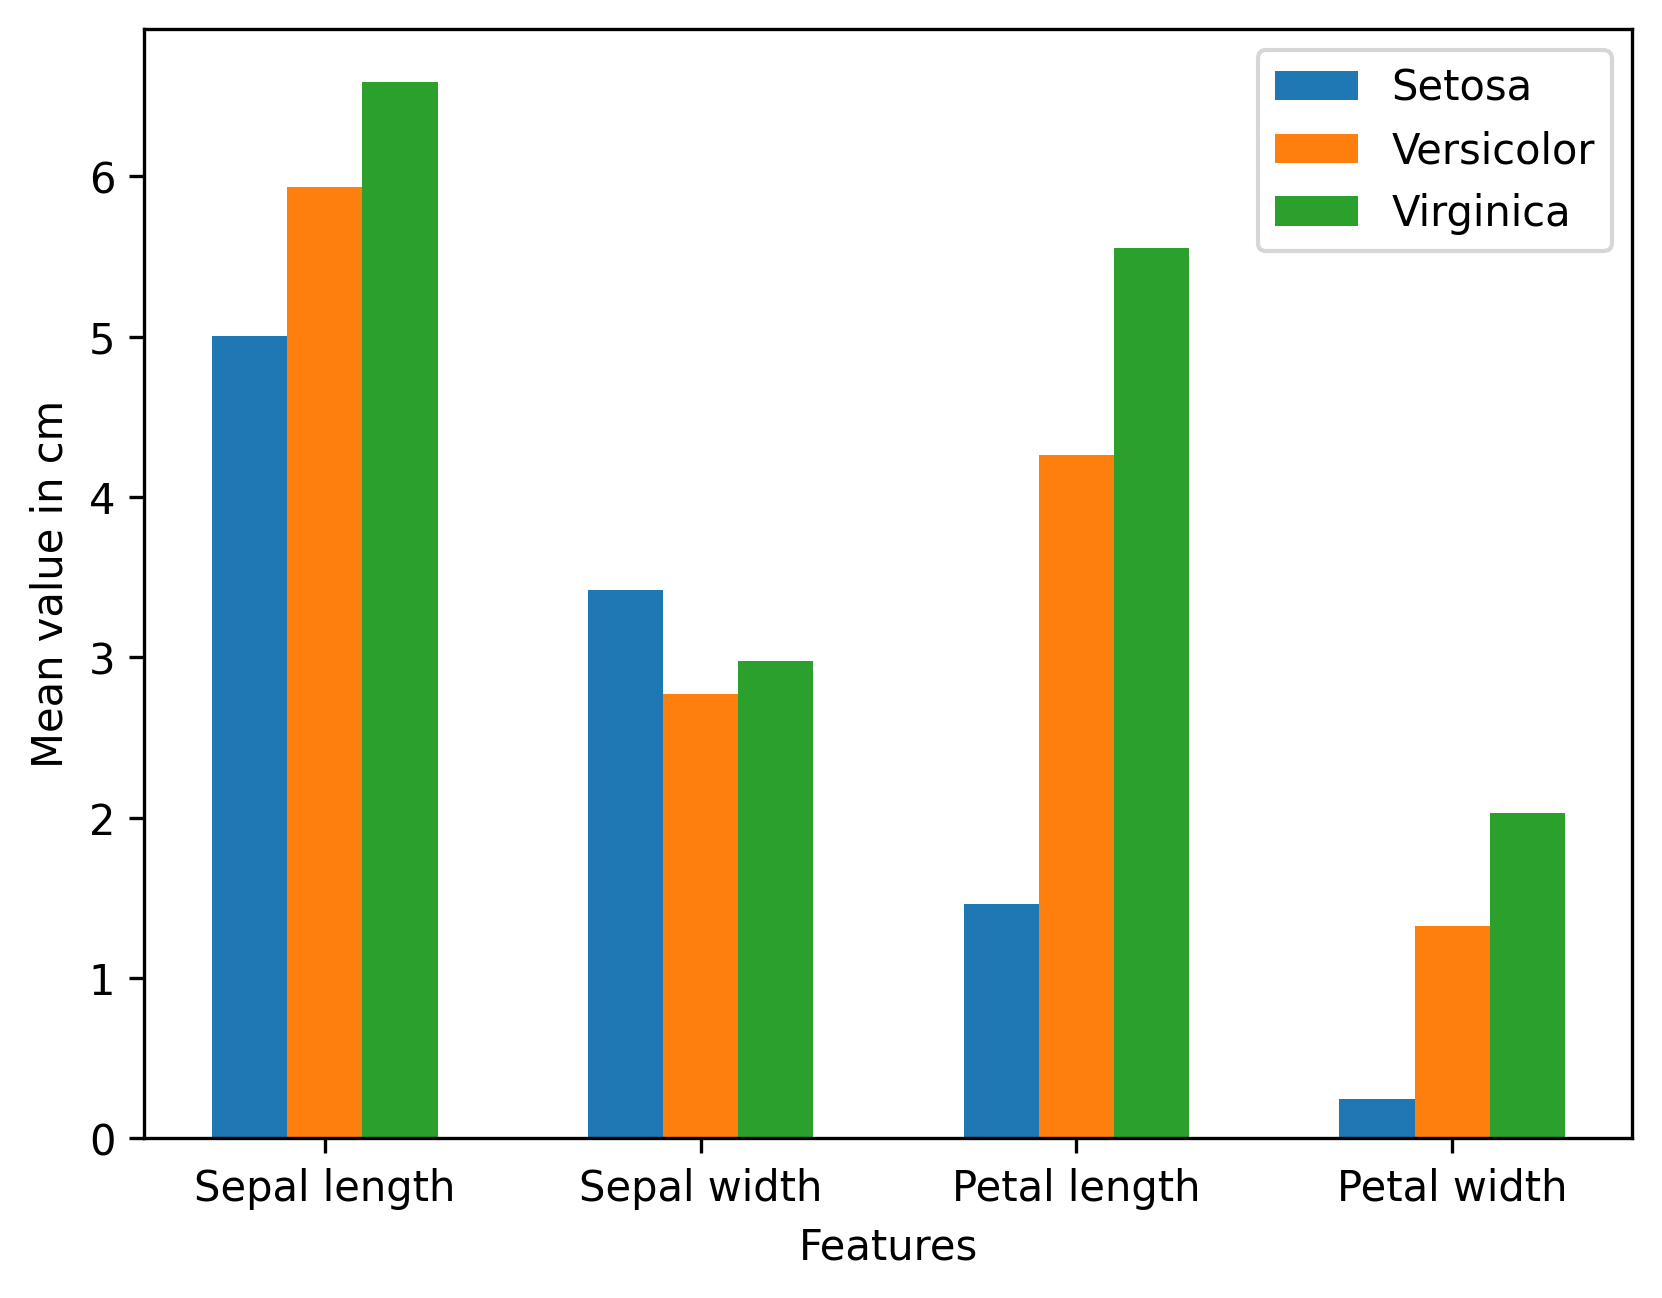
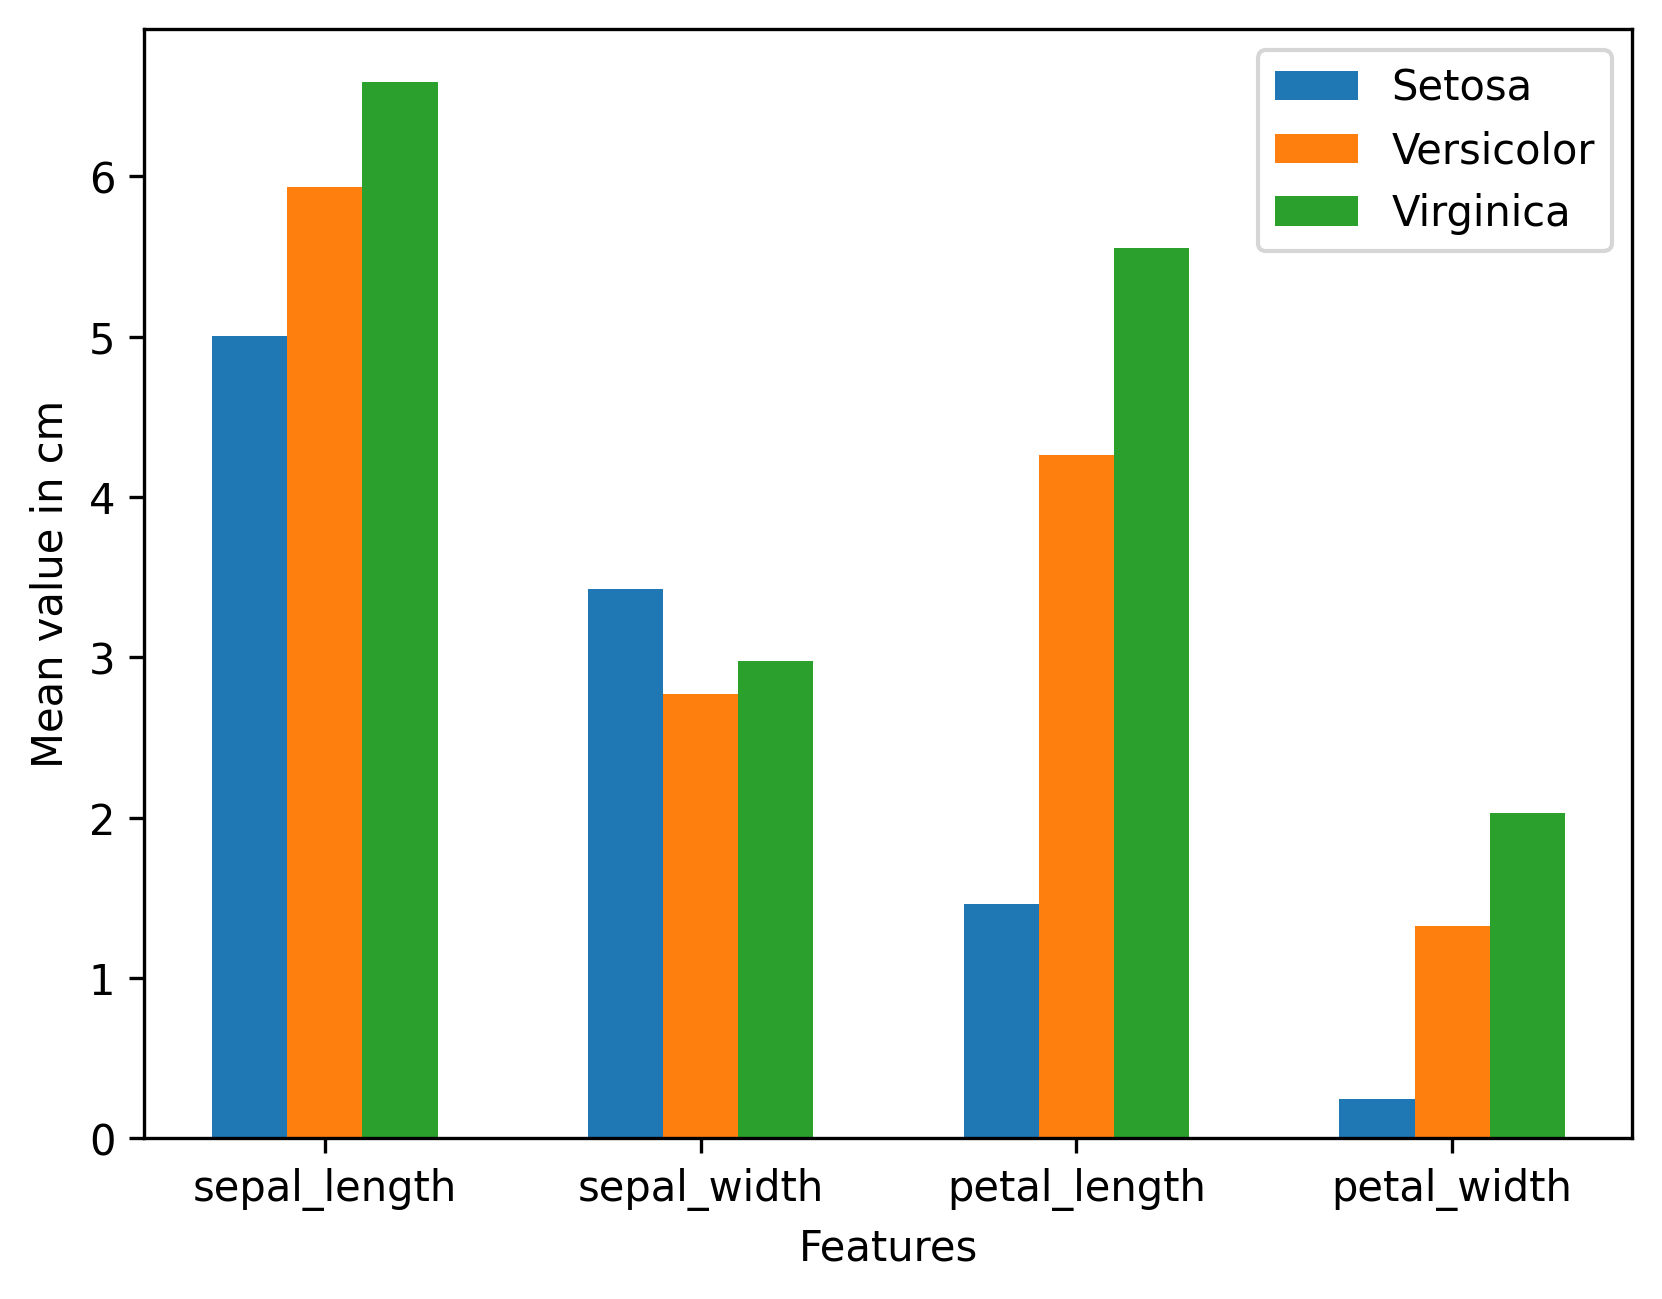
sepparate into functions, add svm classification

diff --git a/index.py b/index.py
@@ -1,37 +1,41 @@
-import numpy as np
 import matplotlib.pyplot as plt
+import numpy as np
 import seaborn as sns
-import pandas as pd
+from sklearn.model_selection import train_test_split
+from sklearn.svm import SVC
 
-columns = ['Sepal length', 'Sepal width', 'Petal length', 'Petal width', 'Class labels']
+data = sns.load_dataset("iris")
+X = data.drop("species", axis=1)
+y = data["species"]
 
-df = pd.read_csv('iris.data', names=columns)
 
-print('First rows:')
-print(df.head(), '\n')
+def plot_pairplots():
+    sns.pairplot(data, hue="species")
+    plt.savefig("pairplot.png", dpi=300, bbox_inches="tight")
 
-print('Data description:')
-print(df.describe(), '\n')
 
-# pair plots
-pairplot = sns.pairplot(df, hue='Class labels')
-plt.savefig('pairplot.png', dpi=300, bbox_inches='tight')
+def plot_barplots():
+    bar_width = 0.2
+    mean_values = np.array([X[y == j].mean() for j in y.unique()])
+    x_axis = np.arange(len(X.columns))
+    plt.figure()
+    plt.bar(x_axis, mean_values[0], bar_width, label="Setosa")
+    plt.bar(x_axis + bar_width, mean_values[1], bar_width, label="Versicolor")
+    plt.bar(x_axis + bar_width * 2, mean_values[2], bar_width, label="Virginica")
+    plt.xticks(x_axis + bar_width, list(X.columns))
+    plt.xlabel("Features")
+    plt.ylabel("Mean value in cm")
+    plt.legend(bbox_to_anchor=(1, 1))
+    plt.savefig("barplot.png", dpi=300, bbox_inches="tight")
 
-data = df.values
-X = data[:, :4]
-Y = data[:, 4]
 
-# bar plots
-bar_width = 0.2
-mean_values = np.array([np.average(X[:,i][Y==j]) for i in range(X.shape[1]) for j in np.unique(Y)])
-reshaped = mean_values.reshape(4,3)
-reshaped = np.swapaxes(reshaped,0,1)
-x_axis  =  np.arange(len(columns)-1)
-plt.bar(x_axis, reshaped[0], bar_width, label="Setosa")
-plt.bar(x_axis + bar_width, reshaped[1], bar_width, label="Versicolor")
-plt.bar(x_axis + bar_width * 2, reshaped[2], bar_width, label="Virginica")
-plt.xticks(x_axis + bar_width, columns[:4])
-plt.xlabel("Features")
-plt.ylabel("Mean value in cm")
-plt.legend(bbox_to_anchor=(1,1))
-plt.savefig('barplot.png', dpi=300, bbox_inches='tight')
+def svm_classification():
+    X_train, X_test, y_train, y_test = train_test_split(X, y, test_size=0.2)
+    svc = SVC()
+    svc.fit(X_train, y_train)
+    print(f"SVM classification score: {svc.score(X_test, y_test)}")
+
+
+plot_pairplots()
+plot_barplots()
+svm_classification()
